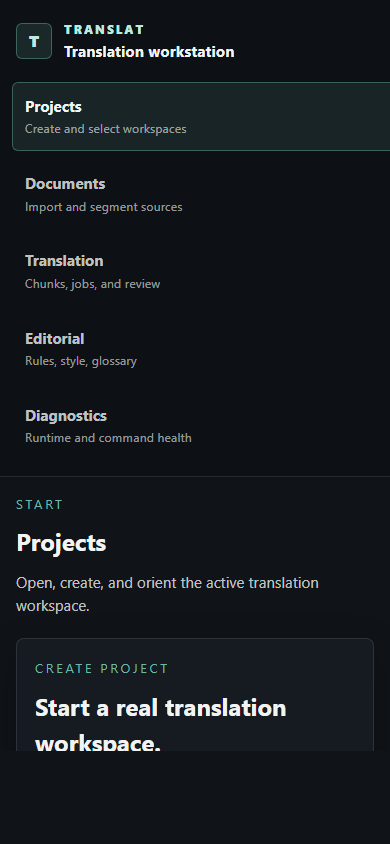
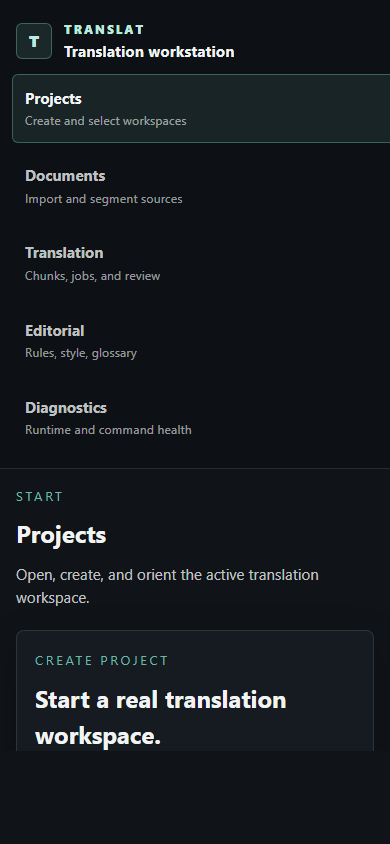
Compact responsive shell navigation

diff --git a/src/frontend/styles.css b/src/frontend/styles.css
@@ -1539,13 +1539,20 @@ select {
 
   .app-shell__nav {
     position: static;
+    grid-template-rows: auto auto;
+    gap: 12px;
     min-height: auto;
     border-right: 0;
     border-bottom: 1px solid var(--color-border-default);
   }
 
+  .app-shell__brand {
+    padding-bottom: 0;
+  }
+
   .app-shell__nav-list {
-    grid-template-columns: repeat(5, minmax(140px, 1fr));
+    align-self: start;
+    grid-template-columns: repeat(5, minmax(0, 1fr));
     overflow-x: auto;
   }
 

diff --git a/docs/product/TR-34-visual-validation.md b/docs/product/TR-34-visual-validation.md
@@ -10,10 +10,13 @@ Validation date: 2026-04-21.
 ## Evidence
 - Browser runtime: `http://127.0.0.1:1420/`
 - Desktop capture: `docs/product/assets/TR-34/browser-desktop.png`
+- Intermediate responsive capture: `docs/product/assets/TR-34/browser-tablet.png`
 - Mobile capture: `docs/product/assets/TR-34/browser-mobile.png`
 - Browser mode: Vite web preview, with Tauri command bridge unavailable.
 
 ![TR-34 browser desktop](assets/TR-34/browser-desktop.png)
+
+![TR-34 browser intermediate responsive](assets/TR-34/browser-tablet.png)
 
 ![TR-34 browser mobile](assets/TR-34/browser-mobile.png)
 
@@ -42,6 +45,10 @@ Mobile viewport:
 - No obvious horizontal clipping in the captured viewport.
 - The content requires vertical scrolling, which is expected for the current shell structure.
 
+Intermediate responsive viewport:
+- Navigation uses a compact horizontal row without an elastic empty area below the tabs.
+- The view header starts immediately after the navigation boundary, preserving route orientation without duplicated chrome.
+
 ## Operational State Matrix
 | State | Validation method | Result |
 |---|---|---|
@@ -64,7 +71,7 @@ Mobile viewport:
 - The shell uses real buttons for navigation, project actions, document rows, chunk rows, and job/QA actions.
 - Disabled operational states are explicit for non-segmented documents, missing chunks, inactive jobs, and unavailable export.
 - Semantic status colors are restrained and consistent with TR-31 roles: info for progress, success for ready/completed, warning for blocked/incomplete, danger for incidents.
-- Dense workstation layout is preserved on desktop through left navigation, top context, and three-zone Translation Workspace.
+- Dense workstation layout is preserved on desktop through left navigation and the three-zone Translation Workspace.
 - Mobile layout stacks major regions and avoids horizontal overflow in the captured state.
 
 ## Residual Risks
